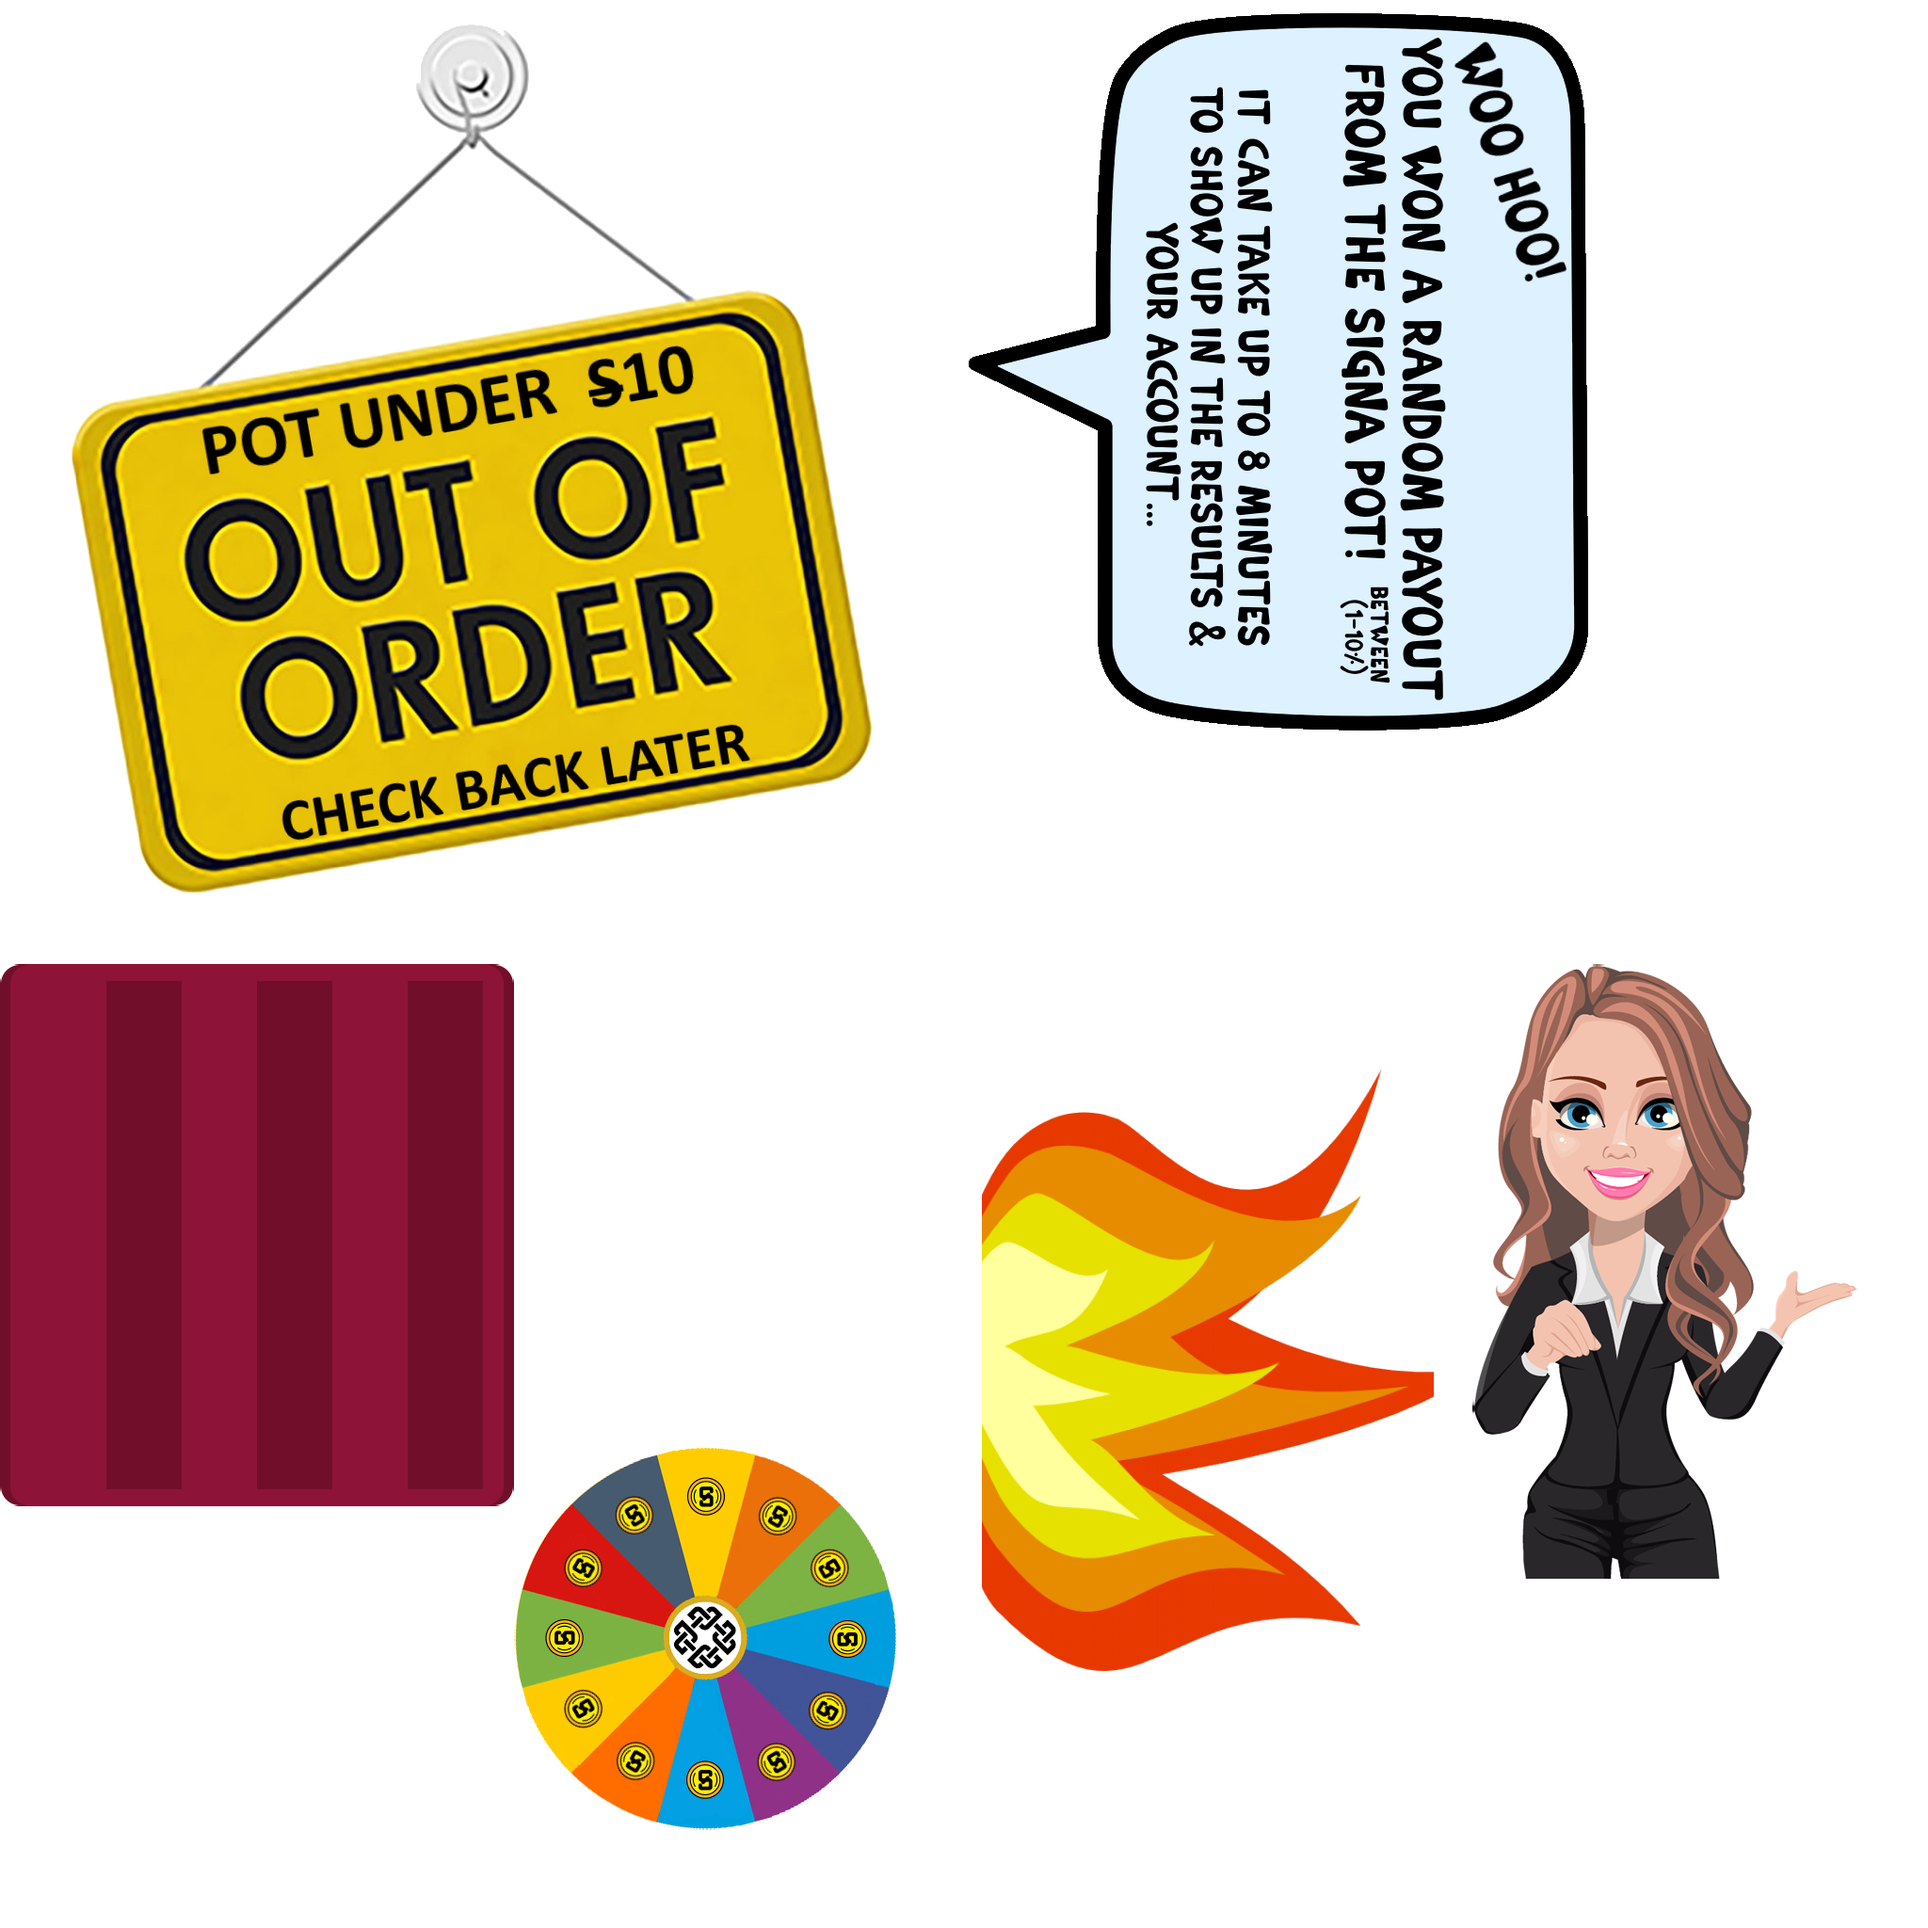
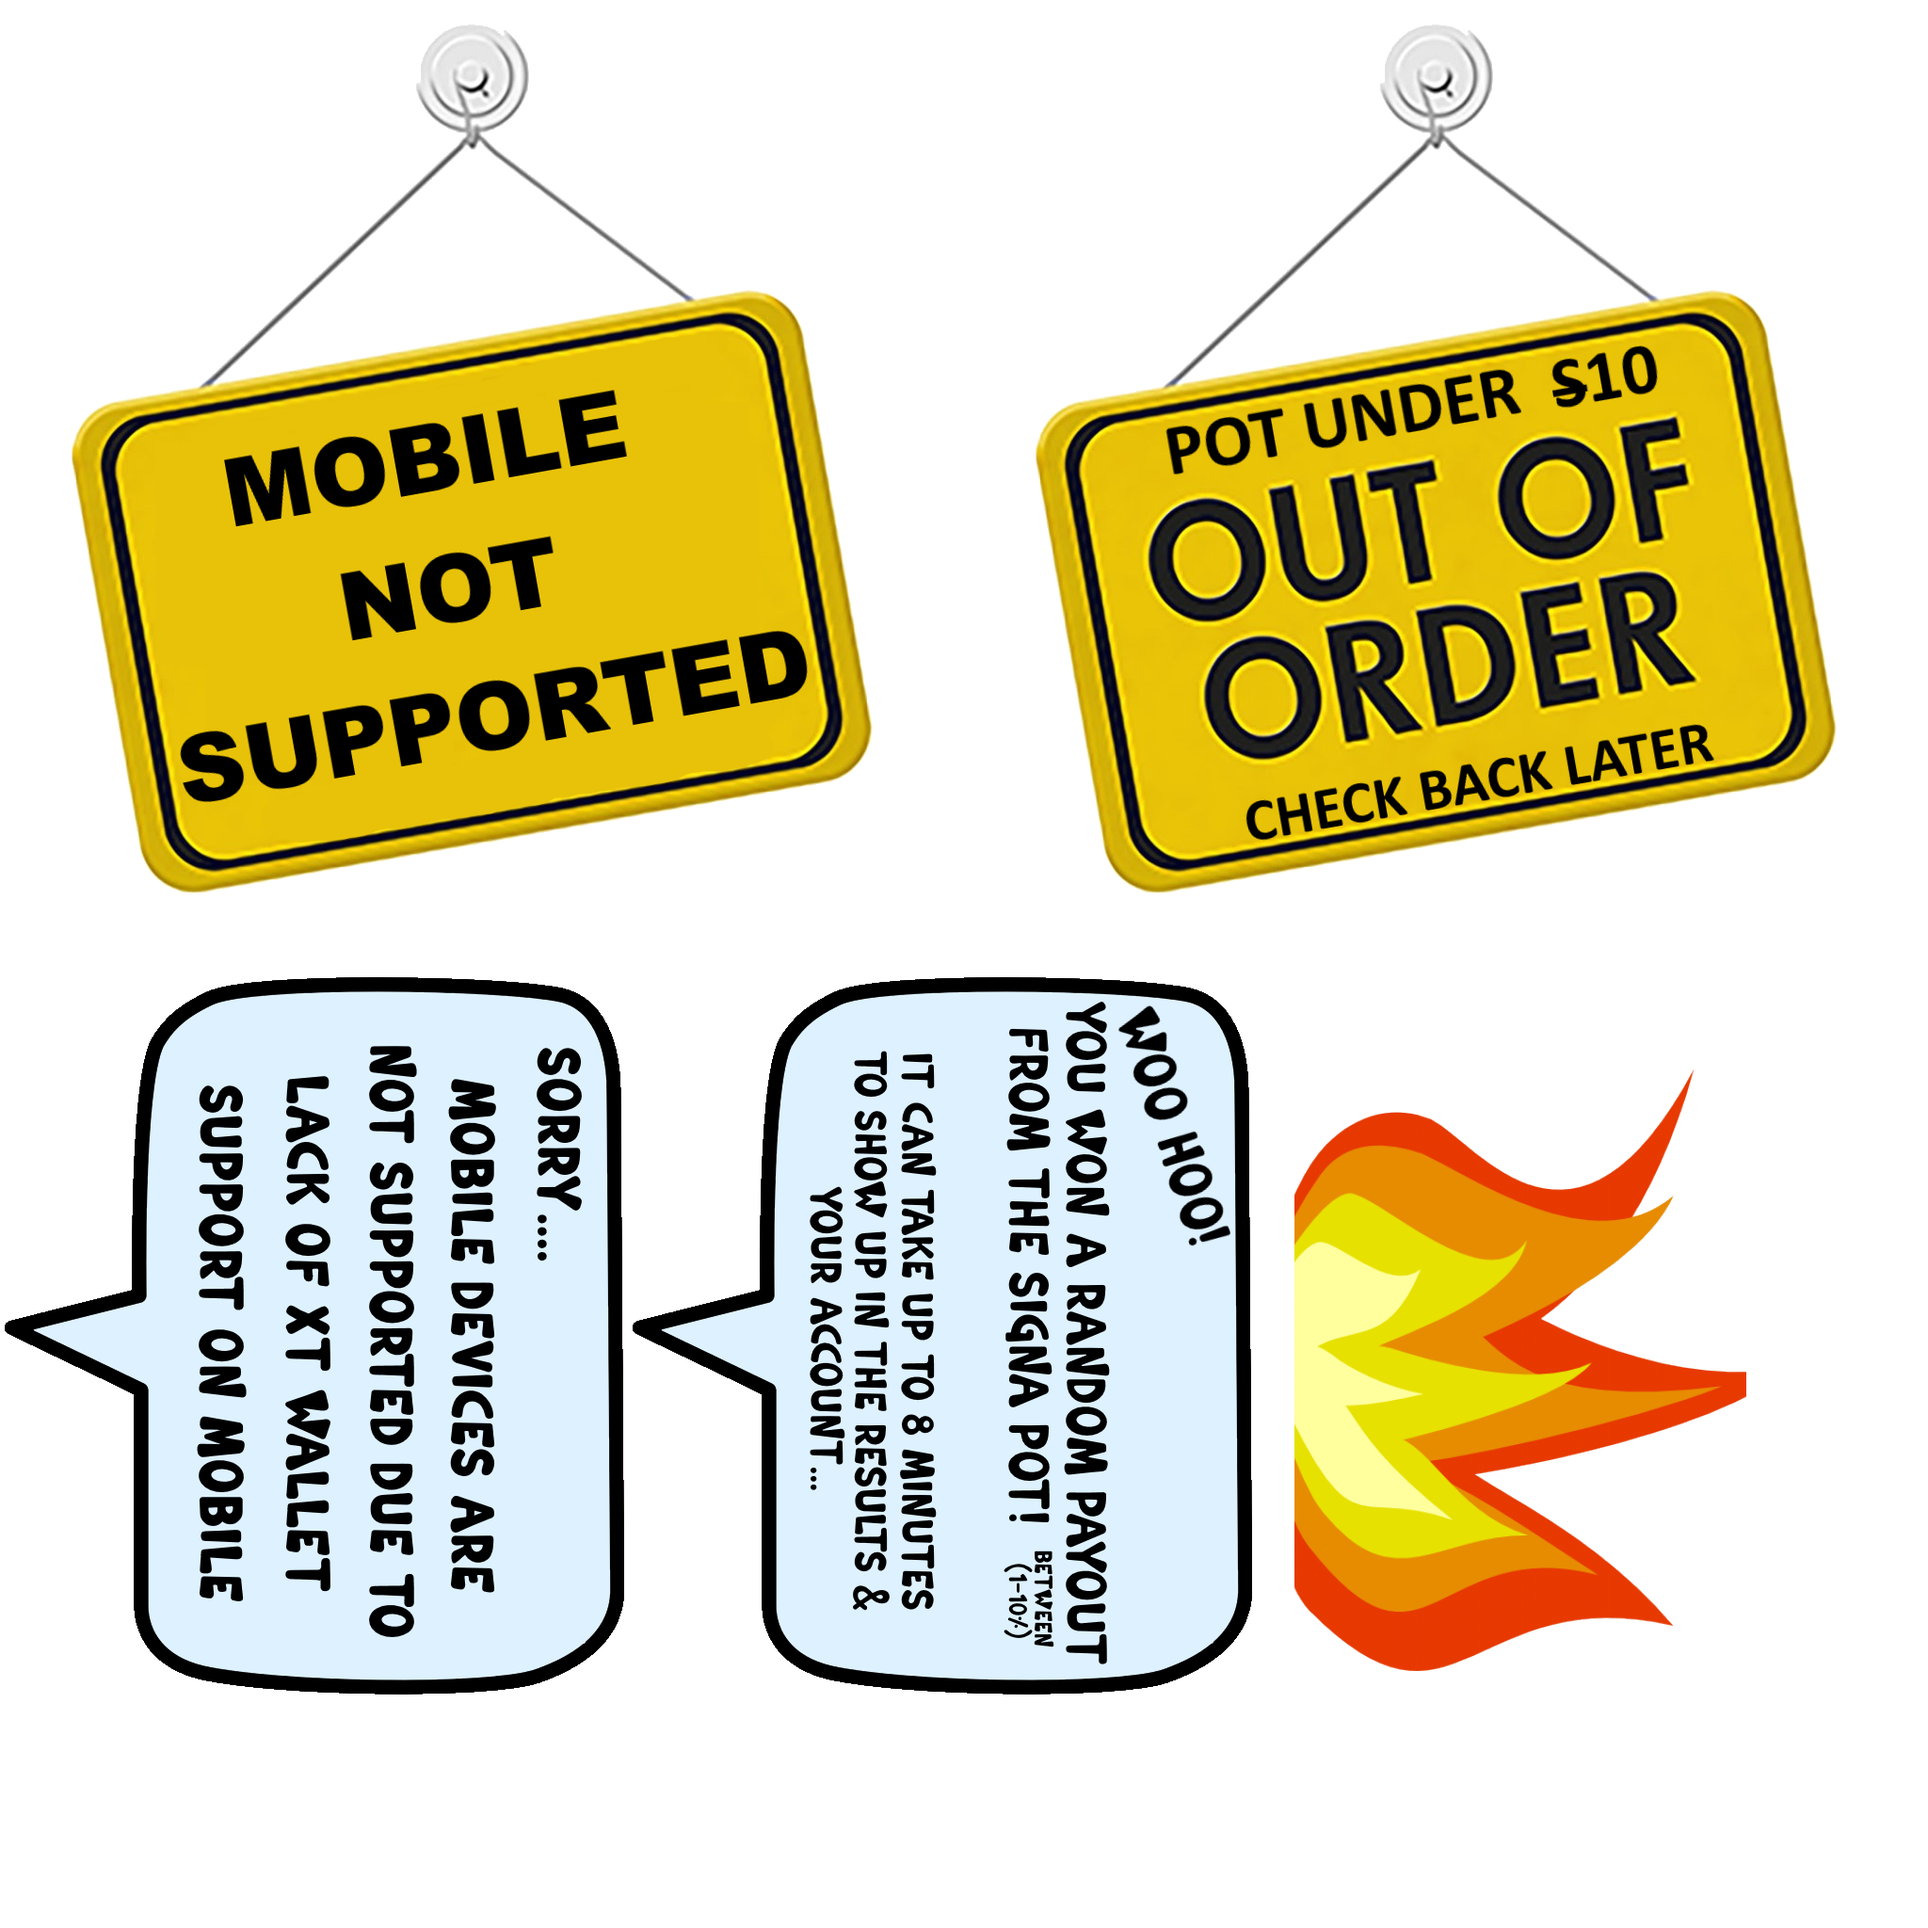
Add files via upload

diff --git a/scripts/c3runtime.js b/scripts/c3runtime.js
@@ -3776,6 +3776,22 @@ selector)},CreateSpriteImgElement(objectClass,selector,insertAt,id,clazz){if(!ob
 }
 
 {
+'use strict';{const C3=self.C3;C3.Plugins.PlatformInfo=class PlatformInfoPlugin extends C3.SDKPluginBase{constructor(opts){super(opts)}Release(){super.Release()}}}{const C3=self.C3;C3.Plugins.PlatformInfo.Type=class PlatformInfoType extends C3.SDKTypeBase{constructor(objectClass){super(objectClass)}Release(){super.Release()}OnCreate(){}}}
+{const C3=self.C3;const DOM_COMPONENT_ID="platform-info";C3.Plugins.PlatformInfo.Instance=class PlatformInfoInstance extends C3.SDKInstanceBase{constructor(inst,properties){super(inst,DOM_COMPONENT_ID);this._screenWidth=0;this._screenHeight=0;this._windowOuterWidth=0;this._windowOuterHeight=0;this._safeAreaInset=[0,0,0,0];this._supportsWakeLock=false;this._isWakeLockActive=false;this.AddDOMMessageHandlers([["window-resize",e=>this._OnWindowResize(e)],["wake-lock-acquired",e=>this._OnWakeLockAcquired(e)],
+["wake-lock-error",e=>this._OnWakeLockError(e)],["wake-lock-released",e=>this._OnWakeLockReleased(e)]]);if(navigator.connection)navigator.connection.addEventListener("change",()=>this._OnNetworkChange());this._runtime.AddLoadPromise(this.PostToDOMAsync("get-initial-state").then(data=>{this._screenWidth=data["screenWidth"];this._screenHeight=data["screenHeight"];this._windowOuterWidth=data["windowOuterWidth"];this._windowOuterHeight=data["windowOuterHeight"];this._safeAreaInset=data["safeAreaInset"];
+this._supportsWakeLock=data["supportsWakeLock"]}))}Release(){super.Release()}_OnWindowResize(e){this._windowOuterWidth=e["windowOuterWidth"];this._windowOuterHeight=e["windowOuterHeight"];this._safeAreaInset=e["safeAreaInset"]}async _OnNetworkChange(){await this.TriggerAsync(C3.Plugins.PlatformInfo.Cnds.OnNetworkChange)}async _OnWakeLockAcquired(){this._isWakeLockActive=true;await this.TriggerAsync(C3.Plugins.PlatformInfo.Cnds.OnWakeLockAcquired)}async _OnWakeLockError(){this._isWakeLockActive=false;
+await this.TriggerAsync(C3.Plugins.PlatformInfo.Cnds.OnWakeLockError)}async _OnWakeLockReleased(){this._isWakeLockActive=false;await this.TriggerAsync(C3.Plugins.PlatformInfo.Cnds.OnWakeLockReleased)}}}
+{const C3=self.C3;C3.Plugins.PlatformInfo.Cnds={IsOnMobile(){return C3.Platform.IsMobile},IsOnWindows(){return C3.Platform.OS==="Windows"},IsOnMacOS(){return C3.Platform.OS==="macOS"},IsOnLinux(){return C3.Platform.OS==="Linux"},IsOnChromeOS(){return C3.Platform.OS==="Chrome OS"},IsOnAndroid(){return C3.Platform.OS==="Android"},IsOniOS(){return C3.Platform.OS==="iOS"},IsWebExport(){const exportType=this._runtime.GetExportType();return exportType==="html5"||exportType==="scirra-arcade"||exportType===
+"preview"||exportType==="instant-games"},IsCordovaExport(){return this._runtime.IsCordova()},IsNWjsExport(){return this._runtime.GetExportType()==="nwjs"},IsWindowsUWPExport(){return this._runtime.GetExportType()==="windows-uwp"},IsWindowsWebView2Export(){return this._runtime.GetExportType()==="windows-webview2"},IsMacOSWKWebView2Export(){return this._runtime.GetExportType()==="macos-wkwebview"},OnNetworkChange(){return true},OnWakeLockAcquired(){return true},OnWakeLockError(){return true},OnWakeLockReleased(){return true},
+IsWakeLockActive(){return this._isWakeLockActive},IsWakeLockSupported(){return this._supportsWakeLock}}}{const C3=self.C3;C3.Plugins.PlatformInfo.Acts={RequestWakeLock(){if(!this._supportsWakeLock)return;this._PostToDOMMaybeSync("request-wake-lock")},ReleaseWakeLock(){if(!this._supportsWakeLock)return;this._isWakeLockActive=false;this.PostToDOM("release-wake-lock")}}}
+{const C3=self.C3;C3.Plugins.PlatformInfo.Exps={Renderer(){let ret="";if(this._runtime.GetWebGPURenderer())ret="webgpu";else ret="webgl"+this._runtime.GetWebGLRenderer().GetWebGLVersionNumber();if(this._runtime.GetRenderer().HasMajorPerformanceCaveat())ret+="-software";return ret},RendererDetail(){return this._runtime.GetWebGLRenderer().GetUnmaskedRenderer()},DevicePixelRatio(){return self.devicePixelRatio},ScreenWidth(){return this._screenWidth},ScreenHeight(){return this._screenHeight},WindowInnerWidth(){return this._runtime.GetCanvasManager().GetLastWidth()},
+WindowInnerHeight(){return this._runtime.GetCanvasManager().GetLastHeight()},WindowOuterWidth(){return this._windowOuterWidth},WindowOuterHeight(){return this._windowOuterHeight},CanvasCssWidth(){return this._runtime.GetCanvasManager().GetCssWidth()},CanvasCssHeight(){return this._runtime.GetCanvasManager().GetCssHeight()},CanvasDeviceWidth(){return this._runtime.GetCanvasManager().GetDeviceWidth()},CanvasDeviceHeight(){return this._runtime.GetCanvasManager().GetDeviceHeight()},Downlink(){if(navigator.connection)return navigator.connection["downlink"]||
+0;else return 0},DownlinkMax(){if(navigator.connection)return navigator.connection["downlinkMax"]||0;else return 0},ConnectionType(){if(navigator.connection)return navigator.connection["type"]||"unknown";else return"unknown"},ConnectionEffectiveType(){if(navigator.connection)return navigator.connection["effectiveType"]||"unknown";else return"unknown"},ConnectionRTT(){if(navigator.connection)return navigator.connection["rtt"]||0;else return 0},HardwareConcurrency(){return navigator.hardwareConcurrency||
+0},DeviceMemory(){return navigator.deviceMemory||0},SafeAreaInsetTop(){return this._safeAreaInset[0]},SafeAreaInsetRight(){return this._safeAreaInset[1]},SafeAreaInsetBottom(){return this._safeAreaInset[2]},SafeAreaInsetLeft(){return this._safeAreaInset[3]}}};
+
+}
+
+{
 'use strict';{const C3=self.C3;C3.Behaviors.Rotate=class RotateBehavior extends C3.SDKBehaviorBase{constructor(opts){super(opts)}Release(){super.Release()}}}{const C3=self.C3;C3.Behaviors.Rotate.Type=class RotateType extends C3.SDKBehaviorTypeBase{constructor(objectClass){super(objectClass)}Release(){super.Release()}OnCreate(){}}}
 {const C3=self.C3;const SPEED=0;const ACCELERATION=1;const ENABLE=2;C3.Behaviors.Rotate.Instance=class RotateInstance extends C3.SDKBehaviorInstanceBase{constructor(inst,properties){super(inst);this._speed=0;this._acceleration=0;this._isEnabled=true;if(properties){this._speed=C3.toRadians(properties[SPEED]);this._acceleration=C3.toRadians(properties[ACCELERATION]);this._isEnabled=properties[ENABLE]}if(this._isEnabled)this._StartTicking()}Release(){super.Release()}SaveToJson(){return{"s":this._speed,
 "a":this._acceleration,"e":this._isEnabled}}LoadFromJson(o){this._speed=o["s"];this._acceleration=o["a"];this._SetEnabled(o["e"])}Tick(){if(!this._isEnabled)return;const dt=this._runtime.GetDt(this._inst);if(dt===0)return;if(this._acceleration!==0)this._speed+=this._acceleration*dt;if(this._speed!==0){const wi=this._inst.GetWorldInfo();wi.SetAngle(wi.GetAngle()+this._speed*dt);wi.SetBboxChanged()}}GetPropertyValueByIndex(index){switch(index){case SPEED:return C3.toDegrees(this._speed);case ACCELERATION:return C3.toDegrees(this._acceleration);
@@ -3840,6 +3856,7 @@ self.C3_GetObjectRefTable = function () {
 		C3.Plugins.Button,
 		C3.Plugins.Browser,
 		C3.Plugins.HTMLElement,
+		C3.Plugins.PlatformInfo,
 		C3.Plugins.System.Cnds.IsGroupActive,
 		C3.Plugins.System.Cnds.OnLayoutStart,
 		C3.Plugins.System.Cnds.PickAll,
@@ -3859,15 +3876,17 @@ self.C3_GetObjectRefTable = function () {
 		C3.Plugins.Sprite.Acts.SetVisible,
 		C3.Plugins.Audio.Acts.Play,
 		C3.Behaviors.Fade.Acts.RestartFade,
+		C3.Plugins.HTMLElement.Acts.SetVisible,
 		C3.Plugins.Sprite.Acts.SetAnimFrame,
+		C3.Plugins.PlatformInfo.Cnds.IsOnMobile,
 		C3.Plugins.Json.Cnds.ForEach,
 		C3.Plugins.Text.Acts.AppendText,
+		C3.Plugins.System.Cnds.CompareVar,
 		C3.Plugins.Sprite.Acts.SetAnim,
 		C3.Plugins.Sprite.Acts.SetAnimSpeed,
 		C3.Behaviors.Rotate.Acts.SetSpeed,
 		C3.Plugins.System.Exps.random,
 		C3.Plugins.Touch.Cnds.OnTapGestureObject,
-		C3.Plugins.System.Cnds.CompareVar,
 		C3.Plugins.Sprite.Acts.SetY,
 		C3.Plugins.Sprite.Exps.Y,
 		C3.Plugins.System.Cnds.ForEach,
@@ -3923,6 +3942,9 @@ self.C3_JsPropNameTable = [
 	{Button: 0},
 	{Browser: 0},
 	{HTMLElement: 0},
+	{PlatformInfo: 0},
+	{noMobile: 0},
+	{speechmobile: 0},
 	{GoSpin: 0},
 	{money: 0},
 	{contractData: 0},

diff --git a/scripts/main.js b/scripts/main.js
@@ -271,3 +271,8 @@ e["attribute"];const value=e["value"];const selector=e["selector"];const isAll=e
 e["value"];const selector=e["selector"];const isAll=e["is-all"];try{const arr=elemsForSelector(elem,selector,isAll);if(arr.length===0)return HTMLUpdateResult(null);for(const e of arr)e.style[prop]=value;return HTMLUpdateResult(elem)}catch(err){console.warn("[HTML element] Failed to set class: ",err);return HTMLUpdateResult(null)}}_OnGetElementBox(elem,e){const selector=e["selector"];let elemToMeasure=null;if(!selector)elemToMeasure=elem;else elemToMeasure=elem.querySelector(selector);if(!elemToMeasure)return{"isOk":false};
 const rc=elemToMeasure.getBoundingClientRect();return{"isOk":true,"left":rc.left,"top":rc.top,"right":rc.right,"bottom":rc.bottom}}_OnInsertImgElement(elem,e){const blobUrl=e["blobUrl"];const width=e["width"];const height=e["height"];const selector=e["selector"];const insertAt=e["insertAt"];let parentElem=elem;if(selector){parentElem=elem.querySelector(selector);if(!parentElem)return{"isOk":false}}const imgElem=new Image(width,height);imgElem.src=blobUrl;if(e["id"])imgElem.id=e["id"];if(e["class"])imgElem.className=
 e["class"];if(insertAt===0)parentElem.prepend(imgElem);else if(insertAt===1)parentElem.append(imgElem);else if(parentElem["replaceChildren"])parentElem["replaceChildren"](imgElem);else{ClearElement(parentElem);parentElem.append(imgElem)}return HTMLUpdateResult(elem)}};self.RuntimeInterface.AddDOMHandlerClass(HANDLER_CLASS)};
+'use strict';{const DOM_COMPONENT_ID="platform-info";const HANDLER_CLASS=class PlatformInfoDOMHandler extends self.DOMHandler{constructor(iRuntime){super(iRuntime,DOM_COMPONENT_ID);this.AddRuntimeMessageHandlers([["get-initial-state",()=>this._OnGetInitialState()],["request-wake-lock",()=>this._OnRequestWakeLock()],["release-wake-lock",()=>this._OnReleaseWakeLock()]]);window.addEventListener("resize",()=>this._OnResize());this._screenWakeLock=null}_OnGetInitialState(){return{"screenWidth":screen.width,
+"screenHeight":screen.height,"windowOuterWidth":window.outerWidth,"windowOuterHeight":window.outerHeight,"safeAreaInset":this._GetSafeAreaInset(),"supportsWakeLock":!!navigator["wakeLock"]}}_GetSafeAreaInset(){const elem=document.body;const elemStyle=elem.style;elemStyle.setProperty("--temp-sai-top","env(safe-area-inset-top)");elemStyle.setProperty("--temp-sai-right","env(safe-area-inset-right)");elemStyle.setProperty("--temp-sai-bottom","env(safe-area-inset-bottom)");elemStyle.setProperty("--temp-sai-left",
+"env(safe-area-inset-left)");const computedStyle=getComputedStyle(elem);const ret=[computedStyle.getPropertyValue("--temp-sai-top"),computedStyle.getPropertyValue("--temp-sai-right"),computedStyle.getPropertyValue("--temp-sai-bottom"),computedStyle.getPropertyValue("--temp-sai-left")].map(str=>{const n=parseInt(str,10);return isFinite(n)?n:0});elemStyle.removeProperty("--temp-sai-top");elemStyle.removeProperty("--temp-sai-right");elemStyle.removeProperty("--temp-sai-bottom");elemStyle.removeProperty("--temp-sai-left");
+return ret}_OnResize(){this.PostToRuntime("window-resize",{"windowOuterWidth":window.outerWidth,"windowOuterHeight":window.outerHeight,"safeAreaInset":this._GetSafeAreaInset()})}async _OnRequestWakeLock(){if(this._screenWakeLock)return;try{this._screenWakeLock=await navigator["wakeLock"]["request"]("screen");this._screenWakeLock.addEventListener("release",()=>this._OnWakeLockReleased());console.log("[Construct] Screen wake lock acquired");this.PostToRuntime("wake-lock-acquired")}catch(err){console.warn("[Construct] Failed to acquire screen wake lock: ",
+err);this.PostToRuntime("wake-lock-error")}}_OnReleaseWakeLock(){if(!this._screenWakeLock)return;this._screenWakeLock["release"]();this._screenWakeLock=null}_OnWakeLockReleased(){console.log("[Construct] Screen wake lock released");this._screenWakeLock=null;this.PostToRuntime("wake-lock-released")}};self.RuntimeInterface.AddDOMHandlerClass(HANDLER_CLASS)};
